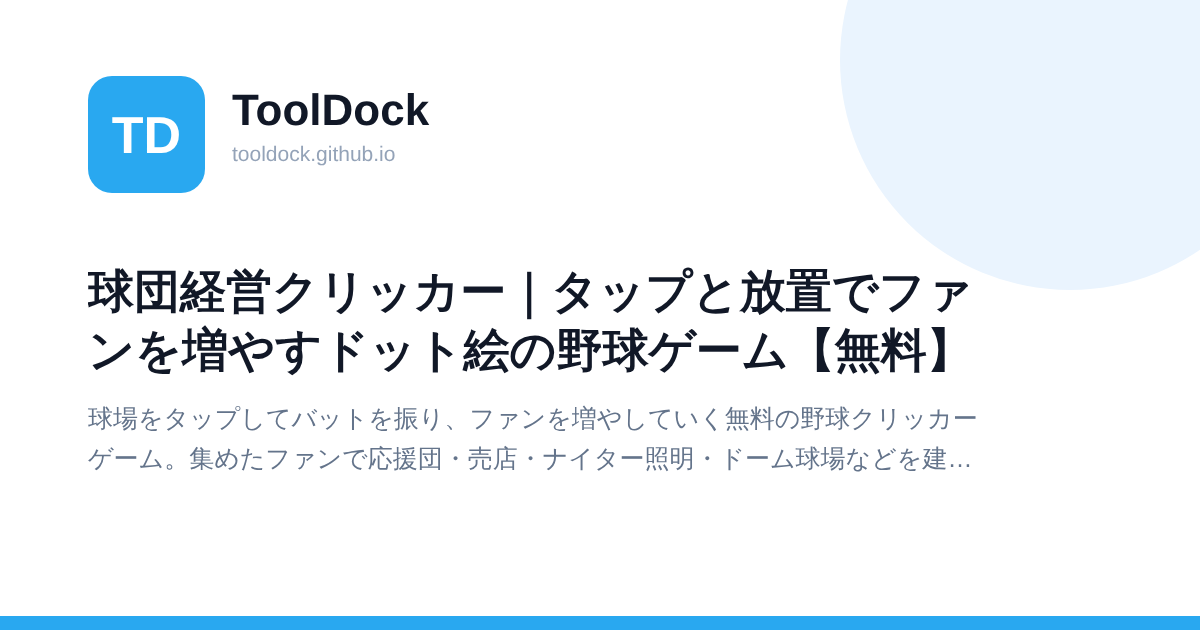
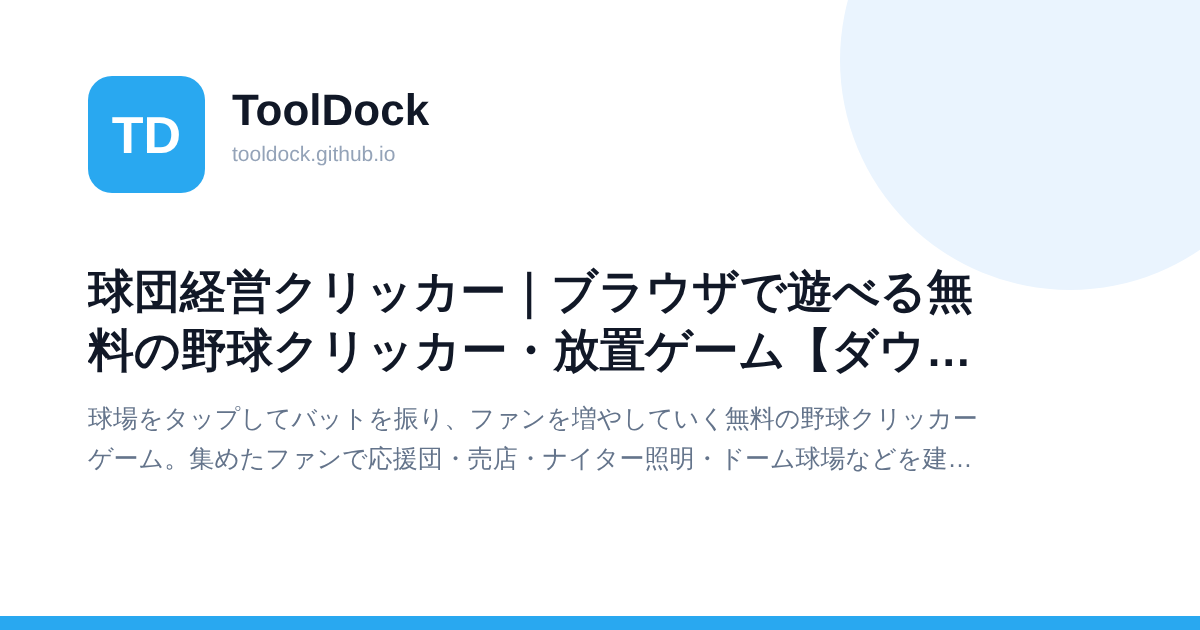
タイピング診断とクリッカーの検索向けの手入れ
タイピング：
- 名前を「タイピング診断・速度測定（苦手キー分析つき）」にし、タイトル・説明を
  「タイピング診断」「速度測定」「苦手キー」「KPM」で探す人に向ける
- ほかのタイピングゲームとのちがい（比較表）、診断結果の例（画像2枚）、
  KPMの換算表、苦手キーの直し方を追加
- 結果をXにポストするボタン（スコア・段位・苦手なキー）

球団経営クリッカー：
- タイトルに「放置ゲーム」を足す
- こんな人におすすめ、施設・殿堂ボーナス・ドラフトの新人・月ごとのイベントの一覧、
  効率よく進めるコツを追加。実績の数を181個に直す
- 記録のタブに、球団の記録をXにポストするボタン

Claude-Session: https://claude.ai/code/session_01SKh1jhAp32CEmbZCaaEmgk

Changed region(s): [[0.0617, 0.4222, 0.8325, 0.6032]]

diff --git a/typing-game/index.html b/typing-game/index.html
@@ -4,15 +4,15 @@
 <meta charset="UTF-8">
 <meta name="viewport" content="width=device-width, initial-scale=1.0">
 
-<title>タイピング練習ゲーム｜打鍵の速さ・苦手キー・ローマ字のクセまで分析【無料】</title>
-<meta name="description" content="日本語の短文・単語、英単語で練習できる無料のタイピングゲーム。KPM・初速・正確率だけでなく、キーごとの速さとミス、指ごとの速さ、遅い並び、打ち間違いの傾向、ローマ字の打ち方のクセまで細かく分析します。記録はブラウザに保存され、成長の推移も見られます。">
+<title>タイピング診断・速度測定｜苦手キーとKPMを分析する無料タイピングゲーム【ランキング】</title>
+<meta name="description" content="無料のタイピング診断・タイピング速度測定。日本語の短文・単語、英単語を打つと、KPM（1分あたりの打鍵数）・初速・正確率を測り、苦手キー・ミスの多いキー・指ごとの速さ・遅い並び・ローマ字のクセまで分析します。全国ランキングつき、登録不要。">
 <link rel="canonical" href="https://tooldock.github.io/typing-game/">
 
 <!-- OGP: scripts/static_ogp.py が書く（SNSはJavaScriptを動かさないため）。手で書き換えない -->
 <meta property="og:type" content="website">
 <meta property="og:site_name" content="ToolDock">
-<meta property="og:title" content="タイピング練習ゲーム｜打鍵の速さ・苦手キー・ローマ字のクセまで分析【無料】 | ToolDock">
-<meta property="og:description" content="日本語の短文・単語、英単語で練習できる無料のタイピングゲーム。KPM・初速・正確率だけでなく、キーごとの速さとミス、指ごとの速さ、遅い並び、打ち間違いの傾向、ローマ字の打ち方のクセまで細かく分析します。記録はブラウザに保存され、成長の推移も見られます。">
+<meta property="og:title" content="タイピング診断・速度測定｜苦手キーとKPMを分析する無料タイピングゲーム【ランキング】 | ToolDock">
+<meta property="og:description" content="無料のタイピング診断・タイピング速度測定。日本語の短文・単語、英単語を打つと、KPM（1分あたりの打鍵数）・初速・正確率を測り、苦手キー・ミスの多いキー・指ごとの速さ・遅い並び・ローマ字のクセまで分析します。全国ランキングつき、登録不要。">
 <meta property="og:url" content="https://tooldock.github.io/typing-game/">
 <meta property="og:image" content="https://tooldock.github.io/ogp/typing-game.png">
 <meta property="og:image:width" content="1200">
@@ -28,7 +28,7 @@
 <!-- Google AdSense -->
 <script async src="https://pagead2.googlesyndication.com/pagead/js/adsbygoogle.js?client=ca-pub-8349615939902537" crossorigin="anonymous"></script>
 
-<meta name="keywords" content="タイピング,タイピング練習,タイピングゲーム,無料,ローマ字入力,KPM,初速,正確率,苦手キー,打鍵分析">
+<meta name="keywords" content="タイピング診断,タイピング速度測定,タイピング,タイピング練習,タイピングゲーム,無料,KPM,苦手キー,初速,正確率,ランキング,ローマ字入力">
 
 <style>
 body{
@@ -163,6 +163,10 @@ tr.slow td{ background:color-mix(in srgb, var(--c) 6%, #fff); }
 .rank-msg.ok{ color:var(--ink); font-weight:700; }
 .rank-msg.ng{ color:#b42318; }
 tr.me td{ background:color-mix(in srgb, var(--c) 8%, #fff); font-weight:700; }
+.ex-fig{ margin:10px 0 18px; }
+.ex-fig img{ max-width:100%; height:auto; border:1px solid var(--line); display:block; }
+.share-row{ margin-top:12px; display:flex; flex-wrap:wrap; gap:8px; align-items:center; }
+.x-btn{ font:inherit; font-size:.92rem; font-weight:700; padding:7px 16px; border:0; border-radius:var(--r-ctl); background:#000; color:#fff; cursor:pointer; }
 .tool-article table{ width:100%; border-collapse:collapse; font-size:.92rem; }
 .tool-article th, .tool-article td{ border:1px solid var(--line); padding:7px 10px; text-align:left; vertical-align:top; }
 .tool-article th{ background:var(--surface-2); white-space:nowrap; }
@@ -171,15 +175,15 @@ tr.me td{ background:color-mix(in srgb, var(--c) 8%, #fff); font-weight:700; }
 </head>
 <body>
 <!-- BREADCRUMB: scripts/static_html.py が書く。手で書き換えない -->
-<nav class="breadcrumb" aria-label="パンくずリスト"><a href="/">ToolDock</a> <span class="bc-sep">›</span> <a href="/category/?cat=game">ゲーム</a> <span class="bc-sep">›</span> <span>タイピング練習（打鍵分析つき）</span></nav>
-<script type="application/ld+json">{"@context": "https://schema.org", "@type": "BreadcrumbList", "itemListElement": [{"@type": "ListItem", "position": 1, "name": "ToolDock", "item": "https://tooldock.github.io/"}, {"@type": "ListItem", "position": 2, "name": "ゲーム", "item": "https://tooldock.github.io/category/?cat=game"}, {"@type": "ListItem", "position": 3, "name": "タイピング練習（打鍵分析つき）", "item": "https://tooldock.github.io/typing-game/"}]}</script>
+<nav class="breadcrumb" aria-label="パンくずリスト"><a href="/">ToolDock</a> <span class="bc-sep">›</span> <a href="/category/?cat=game">ゲーム</a> <span class="bc-sep">›</span> <span>タイピング診断・速度測定（苦手キー分析つき）</span></nav>
+<script type="application/ld+json">{"@context": "https://schema.org", "@type": "BreadcrumbList", "itemListElement": [{"@type": "ListItem", "position": 1, "name": "ToolDock", "item": "https://tooldock.github.io/"}, {"@type": "ListItem", "position": 2, "name": "ゲーム", "item": "https://tooldock.github.io/category/?cat=game"}, {"@type": "ListItem", "position": 3, "name": "タイピング診断・速度測定（苦手キー分析つき）", "item": "https://tooldock.github.io/typing-game/"}]}</script>
 <!-- /BREADCRUMB -->
 
 <div class="container">
 
 <div class="td-banner">
-  <h1>タイピング練習（打鍵分析つき）</h1>
-  <p>日本語の短文・単語、英単語を打って、速さと正確さを測ります。打ち終わると、キーごとの速さとミス、指ごとの速さ、遅い並び、打ち間違いの傾向、ローマ字の打ち方のクセまで細かく分析します。</p>
+  <h1>タイピング診断・速度測定（苦手キー分析つき）</h1>
+  <p>打つだけで、タイピングの速さ（KPM）と正確率を測り、<strong>どのキー・どの指・どの並びで遅れているか</strong>まで診断します。日本語の短文・単語、英単語から選べて、全国ランキングにも登録できます。登録・インストール不要の無料タイピングゲームです。</p>
 </div>
 
 <div class="setup">
@@ -243,6 +247,7 @@ tr.me td{ background:color-mix(in srgb, var(--c) 8%, #fff); font-weight:700; }
     <div class="pb" id="rPb"></div>
   </div>
   <div class="kpis tnum" id="rKpis"></div>
+  <div class="share-row"><button type="button" class="x-btn" id="shareX">𝕏 結果をポストする</button><span class="muted small">スコアと苦手なキーをポストできます</span></div>
   <div class="rank-box" id="rankBox" hidden>
     <div class="rank-form">
       <input id="rankName" maxlength="12" placeholder="名前（12文字まで）" autocomplete="nickname" aria-label="ランキングに載せる名前">
@@ -283,7 +288,31 @@ tr.me td{ background:color-mix(in srgb, var(--c) 8%, #fff); font-weight:700; }
 
 <article class="tool-article">
 
-<h2>このタイピング練習でわかること</h2>
+<h2>ほかのタイピングゲームとのちがい</h2>
+<p>多くのタイピングゲームは、打ち終わったあとに出るのが速さ・正確率・スコアまでです。このページは1打ごとの時刻を記録しているので、<strong>「なぜ遅いのか」</strong>まで分かります。</p>
+<div class="table-scroll">
+<table>
+<thead><tr><th>分かること</th><th>よくあるタイピングゲーム</th><th>このページ</th></tr></thead>
+<tbody>
+<tr><td>速さ・正確率・スコア</td><td>○</td><td>○（KPM・正確率・段位）</td></tr>
+<tr><td>初速（読んでから打ち始めるまで）</td><td>出ないことが多い</td><td>○ 初速と、初速を除いた速さを別々に</td></tr>
+<tr><td>苦手キー</td><td>×</td><td>○ キーボードの図で、遅いキー・ミスの多いキーを色の濃さで</td></tr>
+<tr><td>打ち間違いの傾向</td><td>×</td><td>○「f を打つところで g」のような組み合わせ</td></tr>
+<tr><td>指ごとの速さ</td><td>×</td><td>○ 8本の指それぞれの平均と、左右交互・同じ指の差</td></tr>
+<tr><td>ローマ字のクセ</td><td>×</td><td>○ si / shi などどれで打ったか、最短より何打多いか</td></tr>
+<tr><td>苦手を重点的に練習</td><td>×</td><td>○ 苦手なキーの多い問題を多めに出す</td></tr>
+<tr><td>成長の記録</td><td>サイトによる</td><td>○ スコアの推移と、これまで全部の打鍵の分析</td></tr>
+</tbody>
+</table>
+</div>
+
+<h2>診断結果の例</h2>
+<p>60秒、日本語の短文を打ったときの結果の例です。スコアと段位、速さ（KPM）、初速、正確率などが出ます。</p>
+<figure class="ex-fig"><img src="/typing-game/sample-result.jpg" width="846" height="316" loading="lazy" alt="タイピング診断の結果の例。スコア382・三段、速さ394打/分、初速0.18秒、正確率98.5%"></figure>
+<p>その下に、キーごとの速さがキーボードの図で出ます。この例では y と b と p が濃く、ほかのキーより時間がかかっていることが分かります。y と b は人差し指を大きく伸ばすキーで、遅くなりやすい場所です。</p>
+<figure class="ex-fig"><img src="/typing-game/sample-analysis.jpg" width="846" height="615" loading="lazy" alt="キーごとの速さを色の濃さで表したキーボードの図と、遅いキー・ミスの多いキーの表"></figure>
+
+<h2>このタイピング診断でわかること</h2>
 <p>速さと正確率だけでは、どこで時間を落としているのかまでは分かりません。このページは1打ごとの時刻を記録して、打ち終わったあとに次のことを出します。</p>
 <ul>
 <li><strong>キーごとの速さとミス率</strong>（キーボードの図で、遅いキー・ミスの多いキーほど濃く表示）</li>
@@ -328,6 +357,31 @@ tr.me td{ background:color-mix(in srgb, var(--c) 8%, #fff); font-weight:700; }
 <h2>ローマ字の打ち方</h2>
 <p>「し」は si・shi・ci、「ち」は ti・chi、「つ」は tu・tsu、「ふ」は fu・hu、「じ」は ji・zi のように、どの打ち方でも正解になります。「ん」は次の文字が子音なら n 1回でも進みます。「っ」は次の子音を重ねる（kka）ほか、xtu・ltu でも打てます。</p>
 <p>ローマ字の表示は、あなたがよく使う打ち方に自動で合わせます。shi で打つ人には shi と表示されます。</p>
+
+<h2>KPM（タイピングの速さ）の換算</h2>
+<p>KPM は1分あたりに正しく打った打鍵数です。日本語のローマ字入力では、かな1文字がおよそ1.5〜2打になります。英語の WPM（1分あたりの単語数）は、ふつう5打を1語として数えるので、KPM を5で割るとおおよその WPM になります。</p>
+<div class="table-scroll">
+<table>
+<thead><tr><th>KPM（打/分）</th><th>1秒あたり</th><th>1打あたり</th><th>WPM の目安</th></tr></thead>
+<tbody>
+<tr><td>100</td><td>約1.7打</td><td>600ms</td><td>20</td></tr>
+<tr><td>200</td><td>約3.3打</td><td>300ms</td><td>40</td></tr>
+<tr><td>300</td><td>5打</td><td>200ms</td><td>60</td></tr>
+<tr><td>400</td><td>約6.7打</td><td>150ms</td><td>80</td></tr>
+<tr><td>500</td><td>約8.3打</td><td>120ms</td><td>100</td></tr>
+<tr><td>600</td><td>10打</td><td>100ms</td><td>120</td></tr>
+<tr><td>800</td><td>約13.3打</td><td>75ms</td><td>160</td></tr>
+</tbody>
+</table>
+</div>
+
+<h2>苦手キーの直し方</h2>
+<ol>
+<li><strong>診断で苦手キーを見つける</strong>：「これまで全部」に切り替えると、何回分もの打鍵から苦手キーが出るので、1回だけより確かです</li>
+<li><strong>どの指の問題かを見る</strong>：苦手キーが同じ指に集まっていれば、その指の動かし方の問題です。「打ち間違いの傾向」で隣のキーを打っていれば、指の届く距離が足りていません</li>
+<li><strong>苦手を多めに出して練習する</strong>：「苦手なキーの多い問題を多めに出す」をオンにして、何回か続けて打ちます</li>
+<li><strong>もう一度診断する</strong>：キーボードの図で、そのキーの色が薄くなったかを確かめます</li>
+</ol>
 
 <h2>速く打つためのコツ</h2>
 <ul>
@@ -1037,6 +1091,14 @@ $("optWeak").onchange = e => { S.opt.weak = e.target.checked; save(); badge(); }
 $("optSound").onchange = e => { S.opt.sound = e.target.checked; save(); };
 document.querySelectorAll("#anaTabs button").forEach(b => b.onclick = () => { anaView = b.dataset.v; renderAna(); });
 $("startBtn").onclick = () => countdown();
+$("shareX").onclick = () => {
+  const R = lastRound; if (!R) return;
+  const K = R.agg.keys;
+  const slow = Object.keys(K).filter(k => K[k][1] >= 3 && /^[a-z]$/.test(k)).sort((a, b) => K[b][2] / K[b][1] - K[a][2] / K[a][1]).slice(0, 2);
+  const text = `タイピング診断の結果\nスコア ${f0(R.run.sc)}（${rankOf(R.run.sc)}）／${MODE_NAME[R.run.m]}・${R.run.s}秒\n速さ ${f0(R.kpm)}打/分・正確率 ${R.run.acc}%` +
+    (slow.length ? `\n苦手なキーは「${slow.join("」「")}」でした` : "") + "\n#タイピング診断";
+  window.open("https://x.com/intent/post?text=" + encodeURIComponent(text) + "&url=" + encodeURIComponent("https://tooldock.github.io/typing-game/"), "_blank", "noopener");
+};
 $("stage").addEventListener("pointerdown", () => { if (G.playing) setTimeout(focusTrap, 0); });
 
 function focusTrap() { try { $("trap").focus({ preventScroll: true }); } catch (e) { $("trap").focus(); } }

diff --git a/index.html b/index.html
@@ -229,11 +229,11 @@ ToolDockは、ブラウザだけで使える無料のWebツールを集めたサ
   <section class="cat" id="updates">
   <h2>最近の更新</h2>
   <ul class="update-list">
-    <li><time datetime="2026-11-12">11/12</time><span class="up-kind up-update">更新</span><a href="/typing-game/">タイピング練習（打鍵分析つき）</a><span class="up-text">タイピング練習：開始の前に5秒数えるように。時間は120秒を標準にしました</span></li>
-    <li><time datetime="2026-11-12">11/12</time><span class="up-kind up-update">更新</span><a href="/typing-game/">タイピング練習（打鍵分析つき）</a><span class="up-text">タイピング練習にランキングを追加。問題の種類と時間ごとに、自己ベストで順位を競えます</span></li>
-    <li><time datetime="2026-11-12">11/12</time><span class="up-kind up-update">更新</span><a href="/typing-game/">タイピング練習（打鍵分析つき）</a><span class="up-text">タイピングゲームを「タイピング練習（打鍵分析つき）」に作り直し。日本語の短文・単語、英単語を打てて、キーごとの速さとミス、指ごとの速さ、遅い並び、ローマ字のクセまで分析します</span></li>
-    <li><time datetime="2026-11-12">11/12</time><span class="up-kind up-update">更新</span><a href="/kyudan-clicker/">球団経営クリッカー</a><span class="up-text">球団経営クリッカーに「永久欠番」を追加。優勝のとき新人を1人選ぶと、背番号が欠番になり能力がずっと残ります</span></li>
-    <li><time datetime="2026-11-12">11/12</time><span class="up-kind up-update">更新</span><a href="/kyudan-clicker/">球団経営クリッカー</a><span class="up-text">球団経営クリッカーを夜の球場のデザインに一新。建てた施設が並んで見える「球団の施設」と、強化するほど河川敷から夢の球場まで建て替わる本拠地を追加</span></li>
+    <li><time datetime="2026-11-13">11/13</time><span class="up-kind up-update">更新</span><a href="/kyudan-clicker/">球団経営クリッカー</a><span class="up-text">球団経営クリッカーに、施設・殿堂ボーナス・ドラフト・月のイベントの一覧と攻略のコツを追加。記録をXにポストできるように</span></li>
+    <li><time datetime="2026-11-13">11/13</time><span class="up-kind up-update">更新</span><a href="/typing-game/">タイピング診断・速度測定（苦手キー分析つき）</a><span class="up-text">タイピング練習を「タイピング診断・速度測定」に。診断結果の例・KPMの換算表・苦手キーの直し方を追加し、結果をXにポストできるように</span></li>
+    <li><time datetime="2026-11-12">11/12</time><span class="up-kind up-update">更新</span><a href="/typing-game/">タイピング診断・速度測定（苦手キー分析つき）</a><span class="up-text">タイピング練習：開始の前に5秒数えるように。時間は120秒を標準にしました</span></li>
+    <li><time datetime="2026-11-12">11/12</time><span class="up-kind up-update">更新</span><a href="/typing-game/">タイピング診断・速度測定（苦手キー分析つき）</a><span class="up-text">タイピング練習にランキングを追加。問題の種類と時間ごとに、自己ベストで順位を競えます</span></li>
+    <li><time datetime="2026-11-12">11/12</time><span class="up-kind up-update">更新</span><a href="/typing-game/">タイピング診断・速度測定（苦手キー分析つき）</a><span class="up-text">タイピングゲームを「タイピング練習（打鍵分析つき）」に作り直し。日本語の短文・単語、英単語を打てて、キーごとの速さとミス、指ごとの速さ、遅い並び、ローマ字のクセまで分析します</span></li>
   </ul>
   </section>
   <section class="cat" id="popular">
@@ -336,7 +336,7 @@ ToolDockは、ブラウザだけで使える無料のWebツールを集めたサ
   <h2>ゲーム<span class="cat-n">12</span></h2>
   <ul class="tool-grid">
     <li><a class="tool-card c-game" href="/kyudan-clicker/"><span class="tc-title">球団経営クリッカー</span><span class="tc-desc">球場をタップしてファンを増やす、ドット絵の野球クリッカーゲーム。施設・試合・優勝・殿堂・実績とやり込み要素たっぷり。球団名とユニフォームの色も決められます。</span></a></li>
-    <li><a class="tool-card c-game" href="/typing-game/"><span class="tc-title">タイピング練習（打鍵分析つき）</span><span class="tc-desc">日本語の短文・単語、英単語で練習できるタイピングゲーム。キーごとの速さとミス、指ごとの速さ、遅い並び、ローマ字のクセまで細かく分析します。</span></a></li>
+    <li><a class="tool-card c-game" href="/typing-game/"><span class="tc-title">タイピング診断・速度測定（苦手キー分析つき）</span><span class="tc-desc">打つだけでタイピングの速さ（KPM）と正確率を測り、苦手キー・指ごとの速さ・遅い並び・ローマ字のクセまで診断する無料タイピングゲーム。ランキングつき。</span></a></li>
     <li><a class="tool-card c-game" href="/mylife-start/"><span class="tc-title">パワプロ2026-2027 マイライフ アピールポイントのすゝめ</span><span class="tc-desc">経歴・ドラフト順位・アピールポイント・ウィークポイントによる初期能力とボーナスの解説です。</span></a></li>
     <li><a class="tool-card c-game" href="/eikan-kintoku/"><span class="tc-title">パワプロ2026-2027 栄冠ナイン 金特の入手方法まとめ</span><span class="tc-desc">金特本・国際大会・特訓の3つの手段。欲しい金特から狙う評価を逆引きできます。</span></a></li>
     <li><a class="tool-card c-game" href="/shippo/"><span class="tc-title">パワプロ2026-2027 マイライフ 尻尾 入手方法一覧</span><span class="tc-desc">尻尾12種の入手方法とオススメ度。9個でMAXになるので、あと何個かも分かります。</span></a></li>

diff --git a/js/tool-data.js b/js/tool-data.js
@@ -30,6 +30,8 @@ window.CATEGORY_NAMES = {
 window.RECOMMENDED = ["nouryoku", "nouryoku-pitcher", "order", "counter", "us-market", "fukuri", "standings", "circuit"];
 
 window.UPDATES = [
+  { date: "2026-11-13", id: "kyudan-clicker", kind: "update", text: "球団経営クリッカーに、施設・殿堂ボーナス・ドラフト・月のイベントの一覧と攻略のコツを追加。記録をXにポストできるように" },
+  { date: "2026-11-13", id: "typing-game", kind: "update", text: "タイピング練習を「タイピング診断・速度測定」に。診断結果の例・KPMの換算表・苦手キーの直し方を追加し、結果をXにポストできるように" },
   { date: "2026-11-12", id: "typing-game", kind: "update", text: "タイピング練習：開始の前に5秒数えるように。時間は120秒を標準にしました" },
   { date: "2026-11-12", id: "typing-game", kind: "update", text: "タイピング練習にランキングを追加。問題の種類と時間ごとに、自己ベストで順位を競えます" },
   { date: "2026-11-12", id: "typing-game", kind: "update", text: "タイピングゲームを「タイピング練習（打鍵分析つき）」に作り直し。日本語の短文・単語、英単語を打てて、キーごとの速さとミス、指ごとの速さ、遅い並び、ローマ字のクセまで分析します" },
@@ -445,7 +447,7 @@ window.TOOLS = [
     id: "kyudan-clicker",
     title: "球団経営クリッカー",
     desc: "球場をタップしてファンを増やす、ドット絵の野球クリッカーゲーム。施設・試合・優勝・殿堂・実績とやり込み要素たっぷり。球団名とユニフォームの色も決められます。",
-    seoTitle: "球団経営クリッカー｜ブラウザで遊べる無料の野球クリッカーゲーム【ダウンロード無し】",
+    seoTitle: "球団経営クリッカー｜ブラウザで遊べる無料の野球クリッカー・放置ゲーム【ダウンロード無し】",
     seoDesc: "球場をタップしてバットを振り、ファンを増やしていく無料の野球クリッカーゲーム。集めたファンで応援団・売店・ナイター照明・ドーム球場などを建てると、放置していてもファンが増えていきます。優勝してペナントを集め、次のシーズンへ。ドット絵・ブラウザで遊べて、データは自動で保存されます。",
     themeColor: "#1b1f3b",
     category: "game",
@@ -454,10 +456,10 @@ window.TOOLS = [
 
   {
     id: "typing-game",
-    title: "タイピング練習（打鍵分析つき）",
-    desc: "日本語の短文・単語、英単語で練習できるタイピングゲーム。キーごとの速さとミス、指ごとの速さ、遅い並び、ローマ字のクセまで細かく分析します。",
-    seoTitle: "タイピング練習ゲーム｜打鍵の速さ・苦手キー・ローマ字のクセまで分析【無料】",
-    seoDesc: "日本語の短文・単語、英単語で練習できる無料のタイピングゲーム。KPM・初速・正確率だけでなく、キーごとの速さとミス、指ごとの速さ、遅い並び、打ち間違いの傾向、ローマ字の打ち方のクセまで細かく分析します。記録はブラウザに保存され、成長の推移も見られます。",
+    title: "タイピング診断・速度測定（苦手キー分析つき）",
+    desc: "打つだけでタイピングの速さ（KPM）と正確率を測り、苦手キー・指ごとの速さ・遅い並び・ローマ字のクセまで診断する無料タイピングゲーム。ランキングつき。",
+    seoTitle: "タイピング診断・速度測定｜苦手キーとKPMを分析する無料タイピングゲーム【ランキング】",
+    seoDesc: "無料のタイピング診断・タイピング速度測定。日本語の短文・単語、英単語を打つと、KPM（1分あたりの打鍵数）・初速・正確率を測り、苦手キー・ミスの多いキー・指ごとの速さ・遅い並び・ローマ字のクセまで分析します。全国ランキングつき、登録不要。",
     themeColor: "#bf0000",
     category: "game",
     url: "/typing-game/"

diff --git a/category/index.html b/category/index.html
@@ -132,7 +132,7 @@
   <a class="tool-card c-math" data-cat="math" href="/ode/"><h2>途中式付き・微分方程式ツール</h2><p>変数分離形から二階定係数線形まで、10種類の微分方程式を途中式つきで解くツール。</p></a>
   <a class="tool-card c-math" data-cat="math" href="/radix/"><h2>n進数変換ツール</h2><p>2進数・8進数・10進数・16進数など、2〜36進法の相互変換を行うツール。小数にも対応。</p></a>
   <a class="tool-card c-game" data-cat="game" href="/kyudan-clicker/"><h2>球団経営クリッカー</h2><p>球場をタップしてファンを増やす、ドット絵の野球クリッカーゲーム。施設・試合・優勝・殿堂・実績とやり込み要素たっぷり。球団名とユニフォームの色も決められます。</p></a>
-  <a class="tool-card c-game" data-cat="game" href="/typing-game/"><h2>タイピング練習（打鍵分析つき）</h2><p>日本語の短文・単語、英単語で練習できるタイピングゲーム。キーごとの速さとミス、指ごとの速さ、遅い並び、ローマ字のクセまで細かく分析します。</p></a>
+  <a class="tool-card c-game" data-cat="game" href="/typing-game/"><h2>タイピング診断・速度測定（苦手キー分析つき）</h2><p>打つだけでタイピングの速さ（KPM）と正確率を測り、苦手キー・指ごとの速さ・遅い並び・ローマ字のクセまで診断する無料タイピングゲーム。ランキングつき。</p></a>
   <a class="tool-card c-game" data-cat="game" href="/mylife-start/"><h2>パワプロ2026-2027 マイライフ アピールポイントのすゝめ</h2><p>経歴・ドラフト順位・アピールポイント・ウィークポイントによる初期能力とボーナスの解説です。</p></a>
   <a class="tool-card c-game" data-cat="game" href="/eikan-kintoku/"><h2>パワプロ2026-2027 栄冠ナイン 金特の入手方法まとめ</h2><p>金特本・国際大会・特訓の3つの手段。欲しい金特から狙う評価を逆引きできます。</p></a>
   <a class="tool-card c-game" data-cat="game" href="/shippo/"><h2>パワプロ2026-2027 マイライフ 尻尾 入手方法一覧</h2><p>尻尾12種の入手方法とオススメ度。9個でMAXになるので、あと何個かも分かります。</p></a>

diff --git a/shippo/index.html b/shippo/index.html
@@ -781,7 +781,7 @@ render();
 <h2>同じカテゴリのツール</h2>
 <div class="related-tools-grid">
 <a href="/kyudan-clicker/" class="related-tool-card"><h3>球団経営クリッカー</h3><p>球場をタップしてファンを増やす、ドット絵の野球クリッカーゲーム。施設・試合・優勝・殿堂・実績とやり込み要素たっぷり。球団名とユニフォームの色も決められます。</p></a>
-<a href="/typing-game/" class="related-tool-card"><h3>タイピング練習（打鍵分析つき）</h3><p>日本語の短文・単語、英単語で練習できるタイピングゲーム。キーごとの速さとミス、指ごとの速さ、遅い並び、ローマ字のクセまで細かく分析します。</p></a>
+<a href="/typing-game/" class="related-tool-card"><h3>タイピング診断・速度測定（苦手キー分析つき）</h3><p>打つだけでタイピングの速さ（KPM）と正確率を測り、苦手キー・指ごとの速さ・遅い並び・ローマ字のクセまで診断する無料タイピングゲーム。ランキングつき。</p></a>
 <a href="/mylife-start/" class="related-tool-card"><h3>パワプロ2026-2027 マイライフ アピールポイントのすゝめ</h3><p>経歴・ドラフト順位・アピールポイント・ウィークポイントによる初期能力とボーナスの解説です。</p></a>
 <a href="/eikan-kintoku/" class="related-tool-card"><h3>パワプロ2026-2027 栄冠ナイン 金特の入手方法まとめ</h3><p>金特本・国際大会・特訓の3つの手段。欲しい金特から狙う評価を逆引きできます。</p></a>
 <a href="/crystal-banno/" class="related-tool-card"><h3>パワプロ2026-2027 マイライフ 万能クリスタル（小）（大）入手方法一覧</h3><p>万能クリスタル（小）9通りと（大）の入手方法を、チェックしながら管理できる一覧。</p></a>

diff --git a/nouryoku-pitcher/index.html b/nouryoku-pitcher/index.html
@@ -1838,7 +1838,7 @@ if (document.fonts && document.fonts.ready) {
 <h2>同じカテゴリのツール</h2>
 <div class="related-tools-grid">
 <a href="/kyudan-clicker/" class="related-tool-card"><h3>球団経営クリッカー</h3><p>球場をタップしてファンを増やす、ドット絵の野球クリッカーゲーム。施設・試合・優勝・殿堂・実績とやり込み要素たっぷり。球団名とユニフォームの色も決められます。</p></a>
-<a href="/typing-game/" class="related-tool-card"><h3>タイピング練習（打鍵分析つき）</h3><p>日本語の短文・単語、英単語で練習できるタイピングゲーム。キーごとの速さとミス、指ごとの速さ、遅い並び、ローマ字のクセまで細かく分析します。</p></a>
+<a href="/typing-game/" class="related-tool-card"><h3>タイピング診断・速度測定（苦手キー分析つき）</h3><p>打つだけでタイピングの速さ（KPM）と正確率を測り、苦手キー・指ごとの速さ・遅い並び・ローマ字のクセまで診断する無料タイピングゲーム。ランキングつき。</p></a>
 <a href="/mylife-start/" class="related-tool-card"><h3>パワプロ2026-2027 マイライフ アピールポイントのすゝめ</h3><p>経歴・ドラフト順位・アピールポイント・ウィークポイントによる初期能力とボーナスの解説です。</p></a>
 <a href="/eikan-kintoku/" class="related-tool-card"><h3>パワプロ2026-2027 栄冠ナイン 金特の入手方法まとめ</h3><p>金特本・国際大会・特訓の3つの手段。欲しい金特から狙う評価を逆引きできます。</p></a>
 <a href="/shippo/" class="related-tool-card"><h3>パワプロ2026-2027 マイライフ 尻尾 入手方法一覧</h3><p>尻尾12種の入手方法とオススメ度。9個でMAXになるので、あと何個かも分かります。</p></a>

diff --git a/nouryoku/index.html b/nouryoku/index.html
@@ -1448,7 +1448,7 @@ if (document.fonts && document.fonts.ready) {
 <h2>同じカテゴリのツール</h2>
 <div class="related-tools-grid">
 <a href="/kyudan-clicker/" class="related-tool-card"><h3>球団経営クリッカー</h3><p>球場をタップしてファンを増やす、ドット絵の野球クリッカーゲーム。施設・試合・優勝・殿堂・実績とやり込み要素たっぷり。球団名とユニフォームの色も決められます。</p></a>
-<a href="/typing-game/" class="related-tool-card"><h3>タイピング練習（打鍵分析つき）</h3><p>日本語の短文・単語、英単語で練習できるタイピングゲーム。キーごとの速さとミス、指ごとの速さ、遅い並び、ローマ字のクセまで細かく分析します。</p></a>
+<a href="/typing-game/" class="related-tool-card"><h3>タイピング診断・速度測定（苦手キー分析つき）</h3><p>打つだけでタイピングの速さ（KPM）と正確率を測り、苦手キー・指ごとの速さ・遅い並び・ローマ字のクセまで診断する無料タイピングゲーム。ランキングつき。</p></a>
 <a href="/mylife-start/" class="related-tool-card"><h3>パワプロ2026-2027 マイライフ アピールポイントのすゝめ</h3><p>経歴・ドラフト順位・アピールポイント・ウィークポイントによる初期能力とボーナスの解説です。</p></a>
 <a href="/eikan-kintoku/" class="related-tool-card"><h3>パワプロ2026-2027 栄冠ナイン 金特の入手方法まとめ</h3><p>金特本・国際大会・特訓の3つの手段。欲しい金特から狙う評価を逆引きできます。</p></a>
 <a href="/shippo/" class="related-tool-card"><h3>パワプロ2026-2027 マイライフ 尻尾 入手方法一覧</h3><p>尻尾12種の入手方法とオススメ度。9個でMAXになるので、あと何個かも分かります。</p></a>

diff --git a/eikan-kintoku/index.html b/eikan-kintoku/index.html
@@ -1262,7 +1262,7 @@ render();
 <h2>同じカテゴリのツール</h2>
 <div class="related-tools-grid">
 <a href="/kyudan-clicker/" class="related-tool-card"><h3>球団経営クリッカー</h3><p>球場をタップしてファンを増やす、ドット絵の野球クリッカーゲーム。施設・試合・優勝・殿堂・実績とやり込み要素たっぷり。球団名とユニフォームの色も決められます。</p></a>
-<a href="/typing-game/" class="related-tool-card"><h3>タイピング練習（打鍵分析つき）</h3><p>日本語の短文・単語、英単語で練習できるタイピングゲーム。キーごとの速さとミス、指ごとの速さ、遅い並び、ローマ字のクセまで細かく分析します。</p></a>
+<a href="/typing-game/" class="related-tool-card"><h3>タイピング診断・速度測定（苦手キー分析つき）</h3><p>打つだけでタイピングの速さ（KPM）と正確率を測り、苦手キー・指ごとの速さ・遅い並び・ローマ字のクセまで診断する無料タイピングゲーム。ランキングつき。</p></a>
 <a href="/mylife-start/" class="related-tool-card"><h3>パワプロ2026-2027 マイライフ アピールポイントのすゝめ</h3><p>経歴・ドラフト順位・アピールポイント・ウィークポイントによる初期能力とボーナスの解説です。</p></a>
 <a href="/shippo/" class="related-tool-card"><h3>パワプロ2026-2027 マイライフ 尻尾 入手方法一覧</h3><p>尻尾12種の入手方法とオススメ度。9個でMAXになるので、あと何個かも分かります。</p></a>
 <a href="/crystal-banno/" class="related-tool-card"><h3>パワプロ2026-2027 マイライフ 万能クリスタル（小）（大）入手方法一覧</h3><p>万能クリスタル（小）9通りと（大）の入手方法を、チェックしながら管理できる一覧。</p></a>
